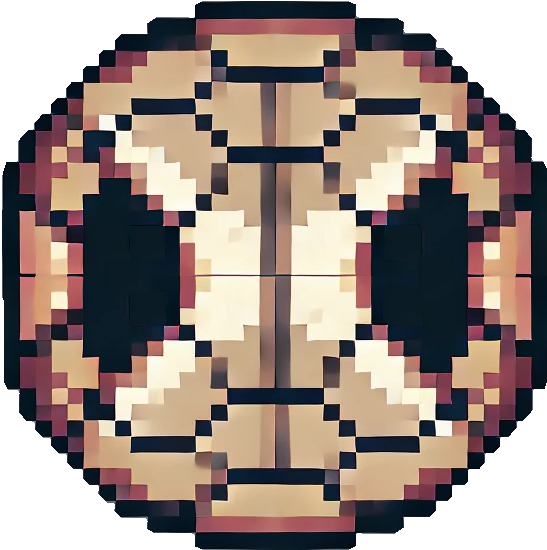
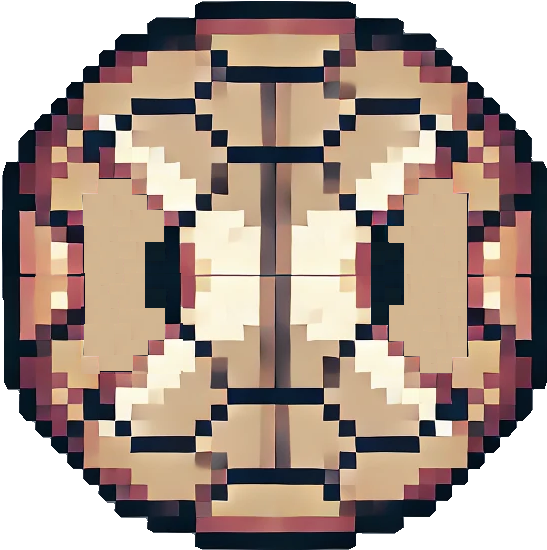
add message about lvl and keybord

Changed region(s): [[0.1243, 0.3091, 0.3419, 0.68], [0.6837, 0.3091, 0.8702, 0.68]]

diff --git a/js/snake.js b/js/snake.js
@@ -13,10 +13,11 @@ let score = 0;
 let isGameOver = false; // Flaga kontrolująca stan gry
 let gameInterval = null; // Zmienna przechowująca interwał gry
 let speed = 200; // Początkowa prędkość gry
+let showStartText = true; // Flaga do kontrolowania wyświetlania tekstu startowego
 
 // Ładowanie grafiki tła
 const backgroundImage = new Image();
-backgroundImage.src = 'assets/background/trawa2.png';
+backgroundImage.src = 'assets/background/trawa3.png';
 
 // Ładowanie grafiki głowy węża
 const headImage = new Image();
@@ -72,6 +73,21 @@ function draw() {
 
     // Rysujemy jedzenie
     ctx.drawImage(foodImage, food.x, food.y, box, box);
+
+    // Wyświetlamy tekst startowy, jeśli gra jeszcze się nie rozpoczęła
+    if (showStartText) {
+        ctx.fillStyle = 'rgba(0, 0, 0, 0.7)';
+        ctx.fillRect(50, canvas.height / 2 - 30, canvas.width - 100, 60);
+
+        ctx.fillStyle = 'white';
+        ctx.font = '20px Arial';
+        ctx.textAlign = 'center';
+        ctx.fillText(
+            'Select a level and use your keyboard to start',
+            canvas.width / 2,
+            canvas.height / 2 + 5
+        );
+    }
 
     // Rysujemy wynik
     document.getElementById('score').textContent = score;
@@ -149,7 +165,7 @@ function resetGame() {
     score = 0;
     isGameOver = false; // Resetujemy flagę końca gry
     food = { x: Math.floor(Math.random() * (canvas.width / box)) * box, y: Math.floor(Math.random() * (canvas.height / box)) * box };
-    restartBtn.style.display = 'none'; // Ukrywamy przycisk "Start Again"
+    showStartText = true; // Przywracamy tekst startowy
     draw();
 }
 
@@ -174,7 +190,8 @@ document.addEventListener('keydown', e => {
     if (isGameOver) return; // Ignorujemy zdarzenia klawiatury, jeśli gra jest zakończona
 
     if (!direction) {
-        // Jeśli gra nie wystartowała, startujemy grę
+        // Jeśli gra nie wystartowała, startujemy grę i usuwamy tekst startowy
+        showStartText = false;
         setGameSpeed();
     }
 
